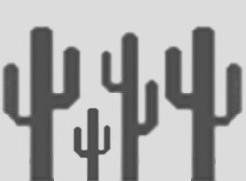
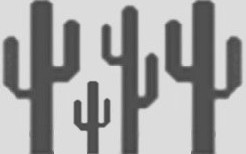
WIP

diff --git a/src/main/java/com/example/m3_finalprojectuf2/TRexApplication.java b/src/main/java/com/example/m3_finalprojectuf2/TRexApplication.java
@@ -15,26 +15,25 @@ import javafx.stage.Stage;
 
 public class TRexApplication extends Application {
     //Coding elements
-    public final int YMAX = 1100;
-    public CactusController cactusController = new CactusController(YMAX);
+    public final int ANCHO_MAX = 1100;
+    public CactusController cactusController = new CactusController();
     Cactus cactus;
     boolean stop = false;
     public int level = 1;
     private boolean isJumping = false;
     private double jumpVelocity = 0.0;
-    private double gravity = 0.6;
+    private double gravity = 0.5;
     private int score = 0;
 
     //Graphic elements
     Pane root = new Pane();
-    Scene scene = new Scene(root, YMAX, 300);
-    ImageView bg = new ImageView(new Image("landscape.jpg",YMAX, 300, false, false));
+    Scene scene = new Scene(root, ANCHO_MAX, 400);
+    ImageView bg = new ImageView(new Image("landscape.png", ANCHO_MAX, 400, false, false));
     ImageView tRex = new ImageView(new Image("tRex.png", 90, 90, false, false));
 
     @Override
     public void start(Stage stage){
-        cactusController.newCactus();
-        cactus = cactusController.getCactus();
+        cactus = cactusController.changeImage(ANCHO_MAX);
 
         stage.setTitle("Chrome T-Rex");
         stage.setScene(scene);
@@ -42,25 +41,25 @@ public class TRexApplication extends Application {
         root.getChildren().add(bg);
 
         tRex.setX(100);
-        tRex.setY(150);
+        tRex.setY(220);
         root.getChildren().add(tRex);
 
-        cactus.image().setX(cactus.getxPos());
+        cactus.image().setX(ANCHO_MAX);
         cactus.image().setY(cactus.getGeneration_height());
         root.getChildren().add(cactus.image());
 
         scene.setOnKeyPressed(event -> {
             if (event.getCode().equals(KeyCode.SPACE) && !isJumping) {
                 isJumping = true;
-                jumpVelocity = -13.5;
+                jumpVelocity = -20;
             }
         });
 
         new AnimationTimer() {
             public void handle(long currentNanoTime) {
                 if(!stop){
-                    if(tRex.getY() > 150){
-                        tRex.setY(150);
+                    if(tRex.getY() > 220){
+                        tRex.setY(220);
                         jumpVelocity = 0.0;
                         isJumping = false;
                     }
@@ -77,23 +76,22 @@ public class TRexApplication extends Application {
         if (isJumping) {
             jumpVelocity += gravity;
             tRex.setY(tRex.getY() + jumpVelocity);
-            if (tRex.getY() >= 300.0) {
-                tRex.setY(300.0);
+            if (tRex.getY() >= 400.0) {
+                tRex.setY(400.0);
             }
         }
 
         // Actualizar la posición del obstáculo
         cactus.decreaseXPos(level);
-        if(cactus.getxPos() <= -cactus.image().getImage().getWidth()) {
-            cactusController.newCactus();
-            cactus = cactusController.getCactus();
+        if(cactus.image().getX() <= -cactus.image().getImage().getWidth()) {
+            cactus = cactusController.changeImage(ANCHO_MAX);
         }
 
         // Detectar colisiones
-        if (tRex.getBoundsInParent().intersects(cactus.image().getBoundsInParent())) {
+        /*if (tRex.getBoundsInParent().intersects(cactus.image().getBoundsInParent())) {
             stop = true;
             System.out.println("Game Over! Score: " + score);
-        }
+        }*/
     }
     
     public static void main(String[] args) {

diff --git a/src/main/java/com/example/m3_finalprojectuf2/Cactus.java b/src/main/java/com/example/m3_finalprojectuf2/Cactus.java
@@ -1,15 +1,12 @@
 package com.example.m3_finalprojectuf2;
 
-import javafx.scene.image.Image;
 import javafx.scene.image.ImageView;
 
 public class Cactus {
-    private double xPos;
     private final int generation_height;
     private final ImageView image;
 
-    public Cactus(double xPos, int generation_height, ImageView image) {
-        this.xPos = xPos;
+    public Cactus(int generation_height, ImageView image) {
         this.generation_height = generation_height;
         this.image = image;
     }
@@ -24,11 +21,7 @@ public class Cactus {
             case 5 -> 2.5;
             default -> 0;
         };
-        image.setX(image.getX() - coef);
-    }
-
-    public double getxPos() {
-        return xPos;
+        image.setX(image.getX() - 2);
     }
 
     public int getGeneration_height() {
@@ -37,14 +30,5 @@ public class Cactus {
 
     public ImageView image() {
         return image;
-    }
-
-    @Override
-    public String toString() {
-        return "Cactus{" +
-                "xPos=" + xPos +
-                ", generation_height=" + generation_height +
-                ", image=" + image.toString() +
-                '}';
     }
 }

diff --git a/src/main/java/com/example/m3_finalprojectuf2/CactusController.java b/src/main/java/com/example/m3_finalprojectuf2/CactusController.java
@@ -17,21 +17,19 @@ public class CactusController {
                 new ImageView(new Image("med_cactus.jpg", 120, 130, false, false)),
                 new ImageView(new Image("big_cactus.jpg", 160, 130, false, false))
     };
-    public int[] cactus_generation_height = {110, 120, 120, 100, 100, 90, 110, 110};
+    public int[] cactus_generation_height = {180, 190, 190, 170, 170, 160, 180, 180};
     public Cactus[] cactus = new Cactus[cactuses_img.length];
 
-    public CactusController(int YMAX) {
+    public CactusController() {
         for (int i = 0; i < cactuses_img.length; i++) {
-            cactus[i] = new Cactus(YMAX, cactus_generation_height[i], cactuses_img[i]);
+            cactus[i] = new Cactus(cactus_generation_height[i], cactuses_img[i]);
         }
     }
 
-    public void newCactus(){
+    public Cactus changeImage(int ANCHO_MAX) {
         Random rd = new Random();
         cactus_index = rd.nextInt(8);
-    }
-
-    public Cactus getCactus(){
+        cactus[cactus_index].image().setX(ANCHO_MAX);
         return cactus[cactus_index];
     }
 }

diff --git a/src/main/java/module-info.java b/src/main/java/module-info.java
@@ -5,6 +5,4 @@ module com.example.m3_finalprojectuf2 {
 
     opens com.example.m3_finalprojectuf2 to javafx.fxml;
     exports com.example.m3_finalprojectuf2;
-    exports tests;
-    opens tests to javafx.fxml;
 }
